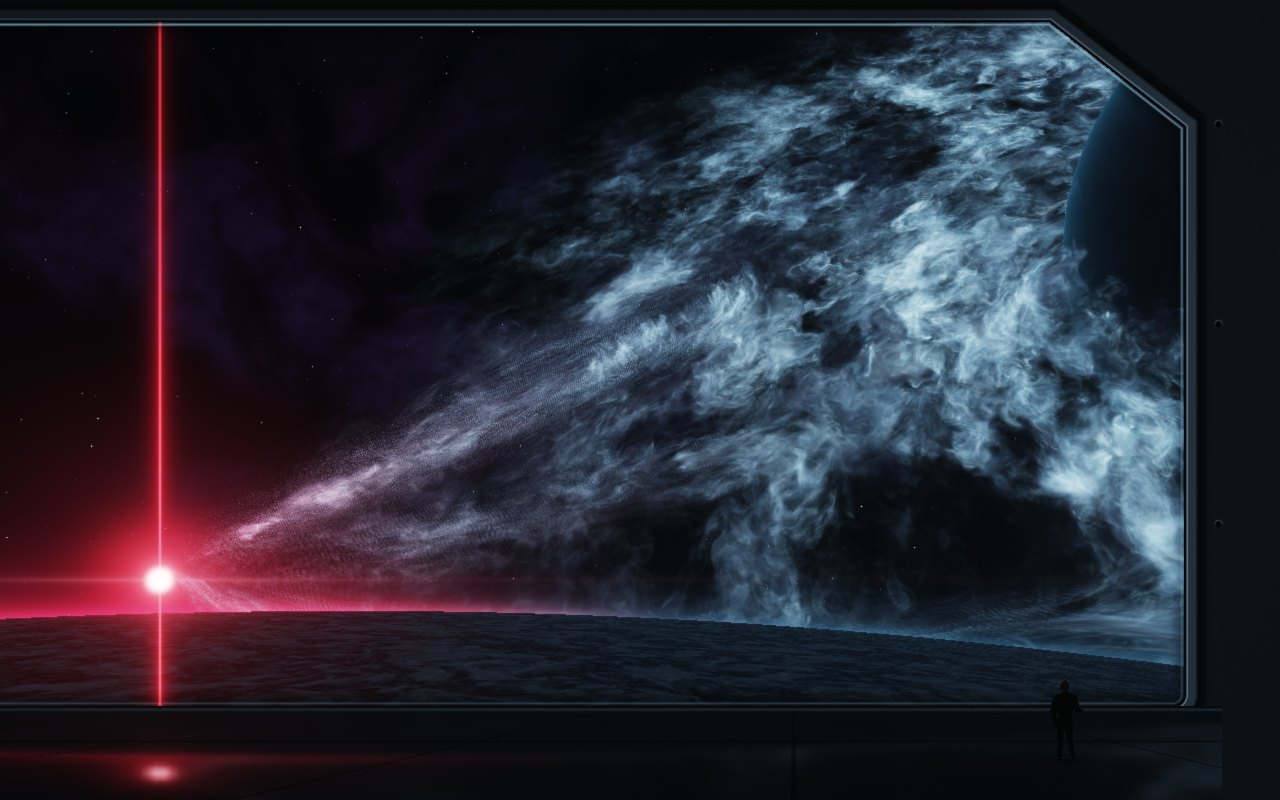
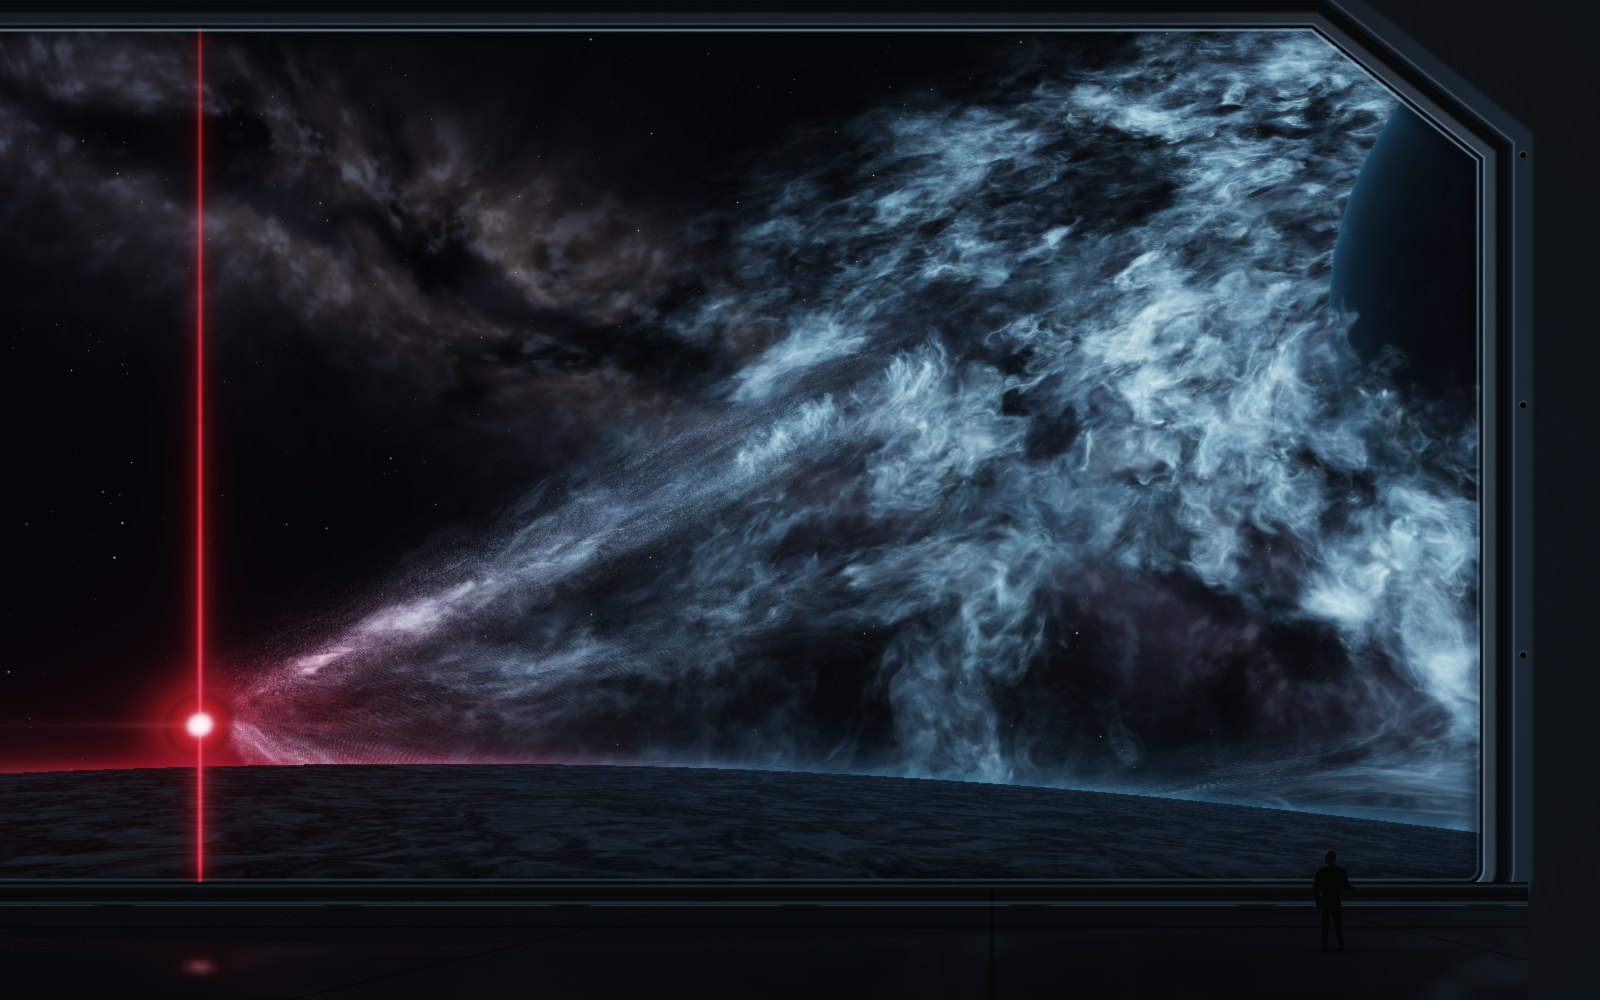
feat(roche): refine beacon glare, galaxy background and observatory
Concentrate the lower-left red source into a smaller bright core, reduce its broad corona, horizontal glare and floor reflection, and preserve the vertical beam. Add a stationary galactic band with dark dust lanes behind the moving nebula.

Refine the window shoulder, matte deck and inset controls, moving the title clear of the beam. Refresh the thumbnail and handoff.

Validation: npm run check; Roche browser and cinematic playback checks; a self-contained file preview and 10-second real playback recording, with HDR and no WebGL errors.

diff --git a/exhibits/roche/vista.js b/exhibits/roche/vista.js
@@ -1,5 +1,5 @@
 // Cinematic Roche exhibit: a fragmented luminous nebula drawn toward a red stellar beacon above the lower-left horizon.
-// Cloud structure, apparent sizes and lensing are art-directed visual effects, not a physical solution.
+// Cloud structure, apparent sizes, galactic background and optical glare are art-directed.
 const QUAD = `#version 300 es
 in vec2 p; out vec2 v_uv;
 void main() { v_uv = p * 0.5 + 0.5; gl_Position = vec4(p, 0.0, 1.0); }`;
@@ -20,7 +20,7 @@ float fbm(vec3 p, int layers) {
   return sum;
 }`;
 
-// 画面：星空 → 行星带（主角）→ 中心的两颗行星 → 脚下的小世界和它的大气
+// 画面：银河背景 → 破碎星云 → 红色致密星体 → 地平线与观察舱。
 const SCENE = `#version 300 es
 precision highp float;
 uniform vec2 u_res,u_tan;
@@ -98,7 +98,7 @@ vec4 aurora(vec2 p,float z) {
   float shadow=exp(-4.2*smoothstep(0.41,0.68,dark))*mix(0.35,1.0,selfShadow);
   float depthLight=mix(0.55,1.24,smoothstep(-0.38,0.32,z-fold));
   float cloudLight=mix(0.38,1.28,smoothstep(0.35,0.65,pockets));
-  float heat=exp(-sinkR*0.62);
+  float heat=exp(-sinkR*0.85);
   vec3 blue=mix(vec3(0.004,0.009,0.024),vec3(0.105,0.255,0.39),smoothstep(0.26,0.68,cloud));
   vec3 pearl=vec3(0.60,0.75,0.83)*pow(max(detail*1.3-0.34,0.0),3.0)*2.25;
   vec3 light=(blue+pearl)*(0.35+broken*0.75)*shadow*depthLight*cloudLight;
@@ -118,17 +118,28 @@ vec3 sky(vec3 rd) {
   vec3 col=vec3(0.0004,0.0007,0.0018);
   vec3 w=vec3(fbm(rd*5.0+2.3,3),fbm(rd*5.0+13.1,3),fbm(rd*5.0+33.4,3));
   float clouds=fbm(rd*10.0+w*3.4,5),lace=fbm(rd*75.0+w*8.0,4);
-  float band=exp(-pow((rd.y-0.15-rd.x*0.15)/0.19,2.0));
-  float dust=pow(smoothstep(0.28,0.67,clouds),2.0)*(0.3+lace)*band;
-  col+=mix(vec3(0.012,0.004,0.023),vec3(0.004,0.013,0.03),smoothstep(-0.4,0.5,rd.x))*dust;
-  for(int layer=0;layer<3;layer++) {
-    float scale=layer==0?77.0:layer==1?171.0:337.0;
+  // A stationary galactic band behind the moving nebula. Irregular dust lanes break its light.
+  float latitude=dot(rd,normalize(vec3(0.42,1.0,-0.08)));
+  float longitude=dot(rd,normalize(vec3(1.0,-0.42,0.0)));
+  float warp=(fbm(rd*24.0+w*2.0,4)-0.48)*0.045;
+  float band=exp(-pow((latitude+warp)/0.060,2.0));
+  float halo=exp(-pow(latitude/0.135,2.0));
+  float dustLane=exp(-pow((latitude+warp*1.7+0.009)/0.018,2.0));
+  float extinction=exp(-3.4*dustLane*(0.45+lace));
+  float clumps=smoothstep(0.25,0.70,clouds)*(0.35+lace);
+  float bulge=exp(-pow((longitude+0.26)/0.29,2.0));
+  col+=vec3(0.009,0.009,0.017)*halo*clumps;
+  col+=mix(vec3(0.048,0.050,0.070),vec3(0.105,0.081,0.069),bulge)*band*clumps*extinction;
+  col+=vec3(0.037,0.044,0.064)*pow(smoothstep(0.38,0.72,lace),2.0)*band*extinction;
+  for(int layer=0;layer<4;layer++) {
+    float scale=layer==0?77.0:layer==1?171.0:layer==2?337.0:601.0;
     vec3 g=rd*scale,cell=floor(g);
     float pick=hash13(cell+7.7);
-    if(pick<0.86)continue;
+    float threshold=layer==3?0.97-0.28*band:0.86-0.09*band;
+    if(pick<threshold)continue;
     vec3 at=cell+0.25+0.5*vec3(hash13(cell),hash13(cell+17.3),hash13(cell+41.7));
-    float power=(pick-0.86)/0.14,point=1.0-smoothstep(0.0,0.075,length(g-at));
-    col+=mix(vec3(0.36,0.60,0.84),vec3(0.93,0.71,0.56),hash13(cell+3.1))*point*(0.09+power*power*0.65);
+    float power=(pick-threshold)/(1.0-threshold),point=1.0-smoothstep(0.0,0.075,length(g-at));
+    col+=mix(vec3(0.42,0.57,0.78),vec3(0.88,0.74,0.61),hash13(cell+3.1))*point*(0.09+power*power*0.65)*(layer==3?0.35:1.0);
   }
   return col;
 }
@@ -150,9 +161,9 @@ vec3 compactSurface(vec3 rd,vec3 center,float t) {
   vec3 n=normalize(rd*t-center);
   float cloud=fbm(n*36.0+u_time*0.004,4);
   float face=max(dot(n,-rd),0.0);
-  vec3 body=vec3(2.4,0.012,0.035)*(0.15+0.30*cloud)*pow(face,1.5);
+  vec3 body=vec3(1.3,0.008,0.022)*(0.15+0.30*cloud)*pow(face,2.0);
   // Preserve an unmistakable light point rather than placing an opaque dark sphere over the source.
-  body+=vec3(18.0,5.0,6.0)*pow(face,25.0);
+  body+=vec3(6.0,1.8,2.4)*pow(face,46.0);
   return body;
 }
 
@@ -166,14 +177,13 @@ void main() {
   vec3 col=sky(rd);
   float tg=sphere(rd,host,GIANT_RADIUS),ts=sphere(rd,sink,SINK_RADIUS);
   float opaque=tg>0.0?tg:1e5;
-  if(ts>0.0&&ts<opaque)opaque=ts;
-  if(opaque<1e4)col=ts==opaque?compactSurface(rd,sink,ts):giantSurface(rd,host,tg);
+  if(opaque<1e4)col=giantSurface(rd,host,tg);
   float impact=length(cross(rd,host));
   if(tg<0.0)col+=vec3(0.045,0.18,0.30)*exp(-max(impact-GIANT_RADIUS,0.0)/0.045)*0.12;
   float miss=length(cross(rd,sink));
   // A continuous corona crosses the limb smoothly, preserving the white-pink light point.
-  col+=vec3(0.83,0.013,0.035)*exp(-miss*miss/0.19);
-  col+=vec3(0.055,0.0016,0.005)*exp(-miss*miss/1.9);
+  col+=vec3(0.28,0.006,0.017)*exp(-miss*miss/0.095);
+  col+=vec3(0.009,0.0004,0.0016)*exp(-miss*miss/0.65);
   float denom=dot(rd,N),s=dot(host,N)/denom;
   if(s>0.0&&abs(denom)>0.018) {
     for(int k=127;k>=0;k--) {
@@ -186,6 +196,12 @@ void main() {
       float alpha=1.0-exp(-cloud.a*(1.8/128.0)*3.0/abs(denom));
       col=col*(1.0-alpha)+cloud.rgb*alpha;
     }
+  }
+  // A tapered emissive limb keeps the compact source crisp without a hard red disc.
+  // Composite at the front of the incoming cloud, retaining its geometric centre and radius.
+  if(ts>0.0&&ts<opaque) {
+    float face=max(dot(normalize(rd*ts-sink),-rd),0.0);
+    col=mix(col,compactSurface(rd,sink,ts),smoothstep(0.05,0.78,face));
   }
   // Foreground world and observation window remain small against the celestial scale.
   vec3 sun=normalize(vec3(-0.5100,-0.19125,1.0));
@@ -204,12 +220,12 @@ void main() {
     float cloud=smoothstep(0.37,0.68,fbm(w,6));
     float fine=smoothstep(0.41,0.69,fbm(w*3.5+5.0,5));
     col=vec3(0.0005,0.0011,0.0021)+vec3(0.027,0.047,0.064)*(cloud*0.65+fine*0.32)*(0.3+0.7*max(dot(n,shine),0.0));
-    col+=warm*0.12*max(dot(n,sun),0.0)*(0.3+0.7*cloud);
-    col=mix(col,mix(vec3(0.02,0.05,0.085),warm*0.15,toward),graze*0.30);
+    col+=warm*0.035*max(dot(n,sun),0.0)*(0.3+0.7*cloud);
+    col=mix(col,mix(vec3(0.02,0.05,0.085),warm*0.045,toward),graze*0.30);
   } else {
     float height=max(far-R,0.0);
     float air=(exp(-height/0.0005)+0.22*exp(-height/0.0028))*(1.0-smoothstep(0.35*lift,0.95*lift,height));
-    col+=mix(cool*0.11,warm*0.9,toward)*air*(b<0.0?1.0:0.0);
+    col+=mix(cool*0.11,warm*0.18,toward)*air*(b<0.0?1.0:0.0);
   }
   o=vec4(col,1.0);
 }
@@ -308,18 +324,18 @@ vec3 reconstructedScene(vec2 uv) {
   return c;
 }
 vec3 outside(vec2 uv) {
-  vec3 c = reconstructedScene(uv) + texture(u_bloom, uv).rgb * 0.14 * texture(u_scene,uv).a;
+  vec3 c = reconstructedScene(uv) + texture(u_bloom, uv).rgb * 0.075 * texture(u_scene,uv).a;
   vec2 p = (uv - u_star) * vec2(u_res.x / u_res.y, 1.0);
   // Three optical scales: a narrow bright core, red body, then a very soft light veil.
-  float axial=1.0/(1.0+5.5*p.y*p.y);
+  float axial=1.0/(1.0+9.0*p.y*p.y);
   float pillar=exp(-pow(abs(p.x)*780.0,1.35))*axial;
   float beamBody=exp(-abs(p.x)*145.0)/(1.0+8.0*p.y*p.y);
   float beamVeil=exp(-pow(p.x*28.0,2.0))/(1.0+15.0*p.y*p.y);
-  float streak = exp(-abs(p.y) * 320.0) / (1.0 + 80.0 * p.x * p.x);
-  c += (vec3(3.5,0.20,0.27)*pillar*0.72
-       + vec3(0.43,0.008,0.022)*beamBody
-       + vec3(0.024,0.0008,0.0024)*beamVeil
-       + vec3(1.1,0.23,0.28)*streak*0.26)*u_flare;
+  float streak = exp(-abs(p.y) * 430.0) / (1.0 + 180.0 * p.x * p.x);
+  c += (vec3(2.8,0.12,0.20)*pillar*0.47
+       + vec3(0.18,0.004,0.012)*beamBody
+       + vec3(0.006,0.0003,0.0008)*beamVeil
+       + vec3(1.1,0.23,0.28)*streak*0.07)*u_flare;
   return c;
 }
 void main() {
@@ -343,8 +359,8 @@ void main() {
     // 地板：映着窗外，越靠近人越暗
     float depth = (floorTop - px.y) / floorTop;
     vec2 mirror = vec2(v_uv.x, (2.0 * floorTop - px.y + depth * 0.10 * u_res.y) / u_res.y);
-    c = texture(u_soft,mirror).rgb * (0.16-0.13*depth) + texture(u_bloom,mirror).rgb * 0.035 * (1.0-depth);
-    c += vec3(0.0014,0.0022,0.0030);
+    c = texture(u_soft,mirror).rgb * (0.085-0.065*depth) + texture(u_bloom,mirror).rgb * 0.009 * (1.0-depth);
+    c += vec3(0.0022,0.0033,0.0045);
     // 哑光面板的透视接缝、细纹和窗根阴影，使前景有材料与结构。
     float tiles = (v_uv.x - 0.62) / (0.13 + depth * 0.31);
     float joint = 1.0 - smoothstep(0.002,0.010,abs(fract(tiles+0.5)-0.5));
@@ -353,17 +369,28 @@ void main() {
     c *= 0.90+0.1*noise3(vec3(px.x*0.45,px.y*3.0,4.0));
     c *= smoothstep(0.0,0.08,depth)*0.5+0.5;
     c += vec3(0.10,0.18,0.23) * 0.12 * exp(-pow((floorTop-px.y-4.0)/1.4,2.0));
+    // Recessed threshold, brushed deck panels and a quiet blue guide light.
+    float threshold=(floorTop-px.y)/u_res.y;
+    c*=1.0-0.48*exp(-pow((threshold-0.013)/0.003,2.0));
+    c+=vec3(0.013,0.026,0.034)*exp(-pow((threshold-0.021)/0.0015,2.0));
+    float lightSegments=smoothstep(0.06,0.11,abs(fract(v_uv.x*7.0)-0.5));
+    c+=vec3(0.012,0.030,0.044)*exp(-pow((threshold-0.0235)/0.00065,2.0))*lightSegments;
   } else {
     float mm=d/u_res.y;
     // 密封条、斜切的金属内框、退后的外壳；高光随面朝向改变。
     float bevel=smoothstep(0.002,0.005,mm)*(1.0-smoothstep(0.013,0.018,mm));
     float facet=0.35+0.65*smoothstep(0.70,0.96,v_uv.x);
-    c=vec3(0.0012,0.0017,0.0023)+vec3(0.022,0.035,0.045)*bevel*facet;
+    c=vec3(0.0020,0.0030,0.0043)+vec3(0.036,0.049,0.061)*bevel*facet;
     c+=vec3(0.07,0.10,0.13)*exp(-pow((mm-0.004)/0.0011,2.0))*facet;
     c+=vec3(0.004,0.007,0.010)*smoothstep(0.02,0.035,mm);
     c*=0.92+0.08*noise3(vec3(px.x*0.9,px.y*0.12,6.3));
     float seam=exp(-pow((mm-0.026)/0.0009,2.0));
     c*=1.0-0.80*seam;
+    // A second recessed shoulder gives the frame thickness without narrowing the view.
+    float shoulder=smoothstep(0.029,0.034,mm)*(1.0-smoothstep(0.050,0.056,mm));
+    c+=vec3(0.010,0.016,0.022)*shoulder*facet;
+    c+=vec3(0.031,0.045,0.056)*exp(-pow((mm-0.034)/0.0012,2.0))*facet;
+    c*=0.96+0.04*noise3(vec3(px.x*0.04,px.y*1.8,7.0));
     // 克制的固定螺钉：沉孔和小面受光。
     if(v_uv.x>0.93 && v_uv.y>0.15 && v_uv.y<0.93){
       vec2 bolt=vec2((v_uv.x-0.952)*u_res.x,(fract(v_uv.y*4.0+0.12)-0.5)*u_res.y/4.0);

diff --git a/exhibits/roche/binary.css b/exhibits/roche/binary.css
@@ -541,3 +541,15 @@ h2 {
 @media(max-width:1100px){.deck-toolbar .call{display:none}}
 @media(prefers-reduced-motion:reduce){.title,.readout,.console,.deck-toolbar > *{transition:none}}
 .loading{color:#b3cbdc;letter-spacing:.15em}
+
+/* 仪表嵌入低反光舱体，标题让开红色光柱。 */
+.title{left:18%;max-width:370px}
+h1{font-size:clamp(30px,3.1vw,44px);font-weight:350;letter-spacing:.10em}
+.eyebrow{color:#8095a4}.eyebrow span{color:#a5bccb}
+.lead{color:#aebdc8;font-size:12px}
+.console,.readout{border-radius:7px;border-color:#b7d3e52a;background:linear-gradient(135deg,#131e29e6,#080e16ef);box-shadow:inset 0 1px 0 #c3e2f014,0 12px 36px #0008}
+.deck-toolbar .stations{padding:2px 12px;border:1px solid #b6d3e225;border-radius:6px;background:linear-gradient(180deg,#15202bba,#080e15d9);box-shadow:inset 0 1px 0 #b6d3e20c}
+.deck-toolbar .tools{padding:2px 10px;border-top:1px solid #8eabb81c}
+.deck-toolbar button{font-size:11px;letter-spacing:.06em}
+.deck-toolbar button:hover{color:#edf7ff;text-shadow:0 0 12px #80b7d955}
+@media(max-width:900px){.title{left:18%;max-width:calc(74% - 180px)}.deck-toolbar > div{gap:4px 12px}.deck-toolbar .stations{padding:2px 8px}.deck-toolbar .tools{padding:2px 4px}h1{font-size:28px}}

diff --git a/exhibits/roche/main.js b/exhibits/roche/main.js
@@ -1,6 +1,6 @@
 // 观景舱：艺术化星云流场；下半页：独立的洛希瓣教学模型。
 import {lagrange,planetShape,volumeRadius,periodHours,roche} from './binary.js?v=1';
-import {createVista,aim,FOCUS} from './vista.js?v=6';
+import {createVista,aim,FOCUS} from './vista.js?v=7';
 const $=id=>document.getElementById(id);
 const query=new URLSearchParams(location.search);
 const reduced=matchMedia('(prefers-reduced-motion: reduce)');

diff --git a/exhibits/roche/index.html b/exhibits/roche/index.html
@@ -9,8 +9,8 @@
     />
     <title>洛希极限 · 知序实验展品</title>
     <link rel="icon" href="data:," />
-    <link rel="stylesheet" href="./binary.css?v=6" />
-    <script type="module" src="./main.js?v=6"></script>
+    <link rel="stylesheet" href="./binary.css?v=7" />
+    <script type="module" src="./main.js?v=7"></script>
   </head>
   <body>
     <main class="exhibit">

diff --git a/docs/exhibits/handoff.md b/docs/exhibits/handoff.md
@@ -16,6 +16,8 @@
 
 ## 现在有什么
 
+- **星云潮汐二次修整（特蕾莎）**：按 Yank 看动态后的意见，压低左下光源并收紧散光，新增静态银河带，细化观察舱材质与控制区。构图、星体位置与云层运动方向保持。临时 localhost 预览停止后不可访问，因此另提供不依赖本地服务的离线 HTML 动态预览；正式部署仍走沙盒的 GitHub Pages。
+
 - **星云潮汐观景舱（2026-11-11，特蕾莎）**：Yank 已确认精修静帧，现接入洛希极限展品。右侧巨大破碎星云、左下红色光点与纵向光柱的位置固定；新增星云 / 光源近景，统一视觉播放时钟与倍速。主画面是艺术化流场，下方洛希瓣模型和碎石卫星实验独立保留。仅提交到 `maomao/exhibits-roche-twins-and-blackhole-hdr`，按本次明确要求不改 `main`。继续之前先看 [最新集成说明](./roche.md#星云潮汐观景舱2026-11-11精修版接入)。
 
 - **洛希极限第五版：旋涡行星带（同日夜，猫猫）**：Yank 看了合并版说「你们都没有弄出来我图里想要的效果，搞得好丑」。这次先出静帧给他确认方向，再做成会动的：主角换成行星带（两条旋臂的青蓝色旋涡），两颗行星是旋涡中心的暗剪影，脚下是带外一颗小卫星的地平线，左边是恒星；去掉了裂纹、斑块和橙棕色。**行星带是画的，不是逐粒算的**；算的是两颗行星的形状、位置和转动。新渲染器在 `exhibits/roche/vista.js`，`scene.js`（前几版的渲染器和粒子）暂时没有页面在用。两个浏览器检查都重写并通过。只在工作分支上，没有合进 `main`。详见 [现在的主页面](./roche.md#现在的主页面旋涡行星带2026-11-11-夜第五版猫猫)。**给 Yank 做画面，先出静帧再动手。**

diff --git a/docs/exhibits/roche.md b/docs/exhibits/roche.md
@@ -4,6 +4,8 @@
 
 ## 星云潮汐观景舱（2026-11-11，精修版接入）
 
+本轮视觉修整：缩小左下光核的高亮范围，收紧红色晕光，降低横向散光、地平线染红和地板倒影；保留原位置的发光点与纵向光柱。银河带从左上方斜穿远景，使用独立的暗尘通道与疏密星点，和向左下汇流的星云形成不同走向。观察舱增加低反光金属肩部、嵌入式门槛、哑光地板和分段导光线，标题避开光柱，镜头控制区改为内嵌仪表。
+
 ![右侧巨型星云被拉向左下方红色光点，光柱纵贯天空，窗框与观测者给出尺度](./shots/roche.jpg)
 
 Yank 确认本地精修静帧后，要求接入洛希极限展品并提交至 `maomao/exhibits-roche-twins-and-blackhole-hdr`，`main` 先不动。本节是当前版本，后文保留旧版设计和物理模型记录。
